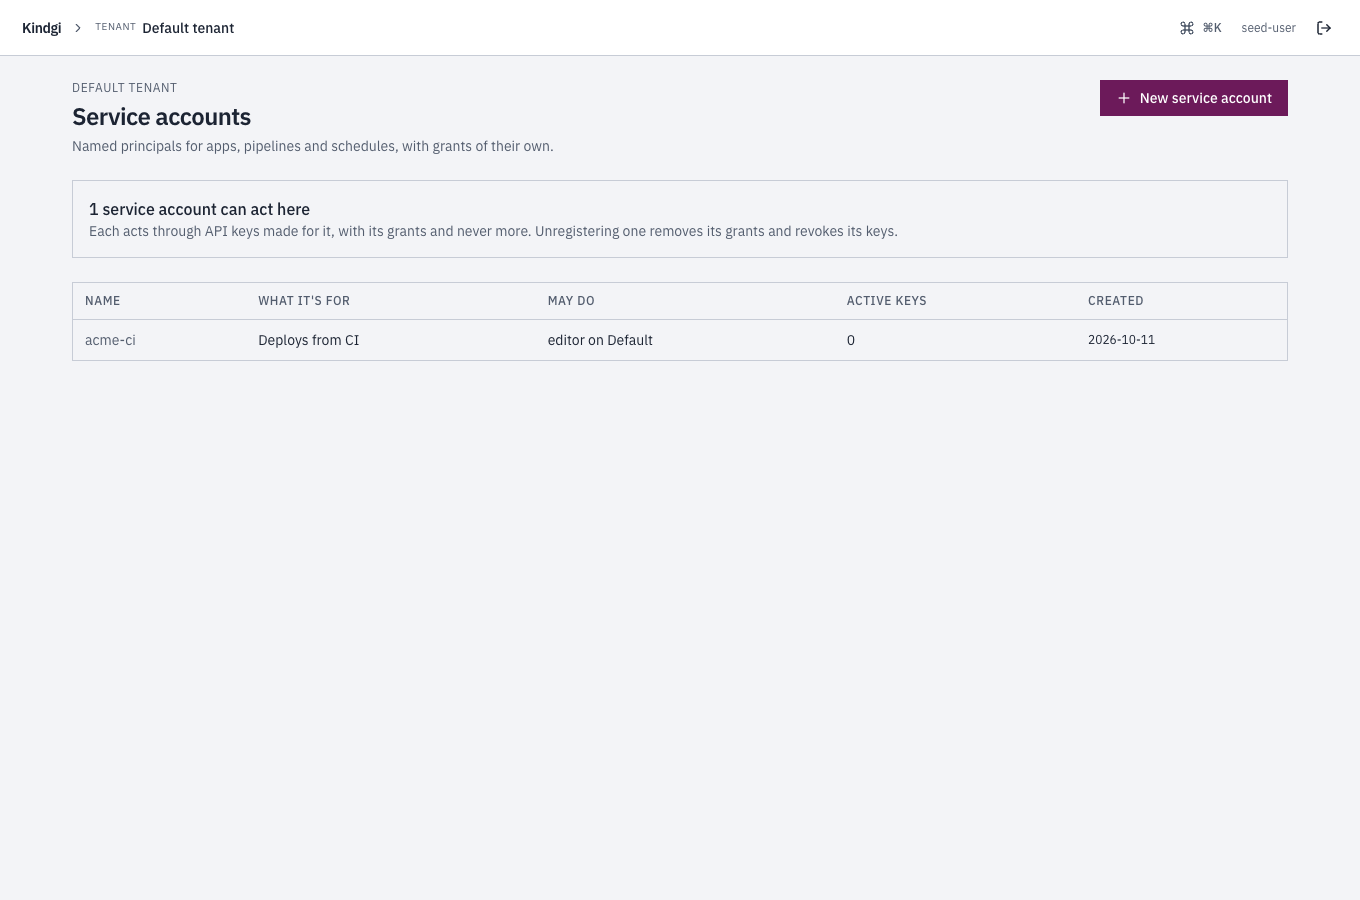
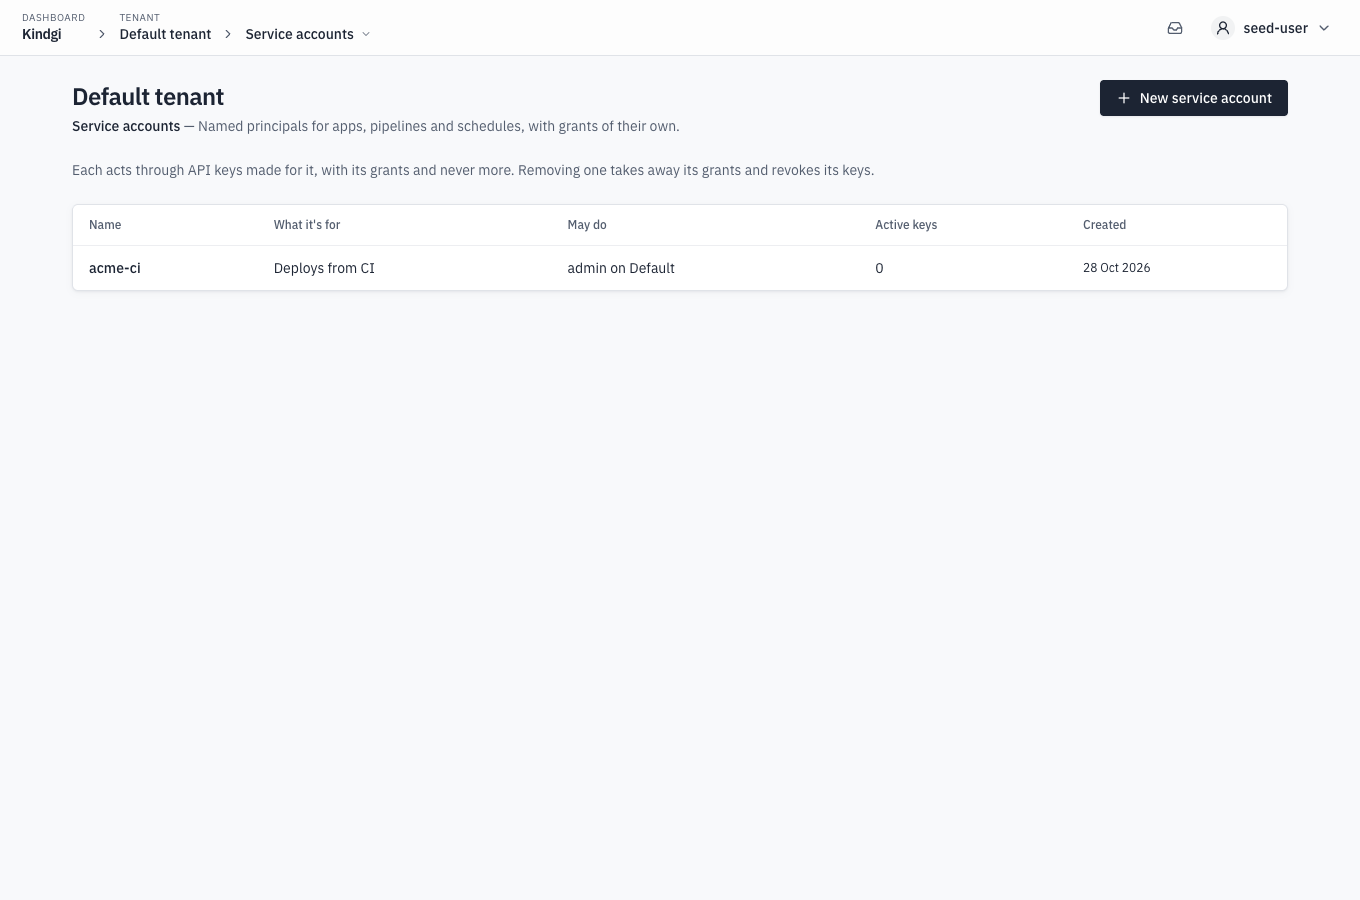
docs(people-and-keys): the CI service account is an admin of its one project
A deploy into a project takes admin on it, so the service account example
that deploys from CI had a role that can't deploy: on a runtime with
authorization, its first deploy was refused with a 403. It's now an admin
of one project, its key is limited to that project, and the Service
accounts screenshot shows the new role.

diff --git a/site/src/content/docs/deploy/people-and-keys.md b/site/src/content/docs/deploy/people-and-keys.md
@@ -500,10 +500,11 @@ so a tool that needs a person's yes when no one is watching waits for one
 - **On a runtime serving one tenant, the runtime's API token acts as the
   seed user,** a person, so the runs it starts count as a person's.
 
-Make one:
+Make one. A deploy into a project takes `admin` on it, so this one, which
+deploys from CI, is an admin of one project:
 
 ```sh
-npx --yes @kindgi/cli@0.2 service-accounts create acme-ci --description="Deploys from CI" --project=<project-id>:editor
+npx --yes @kindgi/cli@0.2 service-accounts create acme-ci --description="Deploys from CI" --project=<project-id>:admin
 ```
 
 - `acme-ci` is the account's name.
@@ -520,7 +521,7 @@ npx --yes @kindgi/cli@0.2 service-accounts create acme-ci --description="Deploys
     {
       "kind": "project",
       "projectId": "211244ea-cdac-45e5-be8c-30a3e0bc42f7",
-      "role": "editor"
+      "role": "admin"
     }
   ],
   "createdBy": "user:11111111-3333-4333-8444-000000000402",
@@ -528,13 +529,14 @@ npx --yes @kindgi/cli@0.2 service-accounts create acme-ci --description="Deploys
 }
 ```
 
-Then make it a key:
+Then make it a key, limited to that same project:
 
 ```sh
-npx --yes @kindgi/cli@0.2 tokens create --for=sa:<service-account-id> --label=ci --expires=90d
+npx --yes @kindgi/cli@0.2 tokens create --for=sa:<service-account-id> --project=<project-id> --label=ci --expires=90d
 ```
 
-`<service-account-id>` is the `serviceAccountId` that `create` printed.
+`<service-account-id>` is the `serviceAccountId` that `create` printed, and
+`--project=<project-id>` limits the key to that one project.
 Its grants are written before `create` answers, so its first key works at
 once. You can grant `--tenant-admin`, `--tenant-member` and
 `--project=<id>:<role>`, now or later with `kindgi service-accounts grant`
@@ -698,7 +700,7 @@ It's refused for yourself and for the seed user, with
 - **Service accounts,** for tenant admins: create one with its grants,
   change them, make it a key, or unregister it.
 
-  ![The Service accounts page: acme-ci, "Deploys from CI", editor on the Default project, with no active keys yet.](../../../assets/people/service-accounts.png)
+  ![The Service accounts page: acme-ci, "Deploys from CI", admin on the Default project, with no active keys yet.](../../../assets/people/service-accounts.png)
 
 A project you have no role on shows **No access**, with the projects you can
 open.
